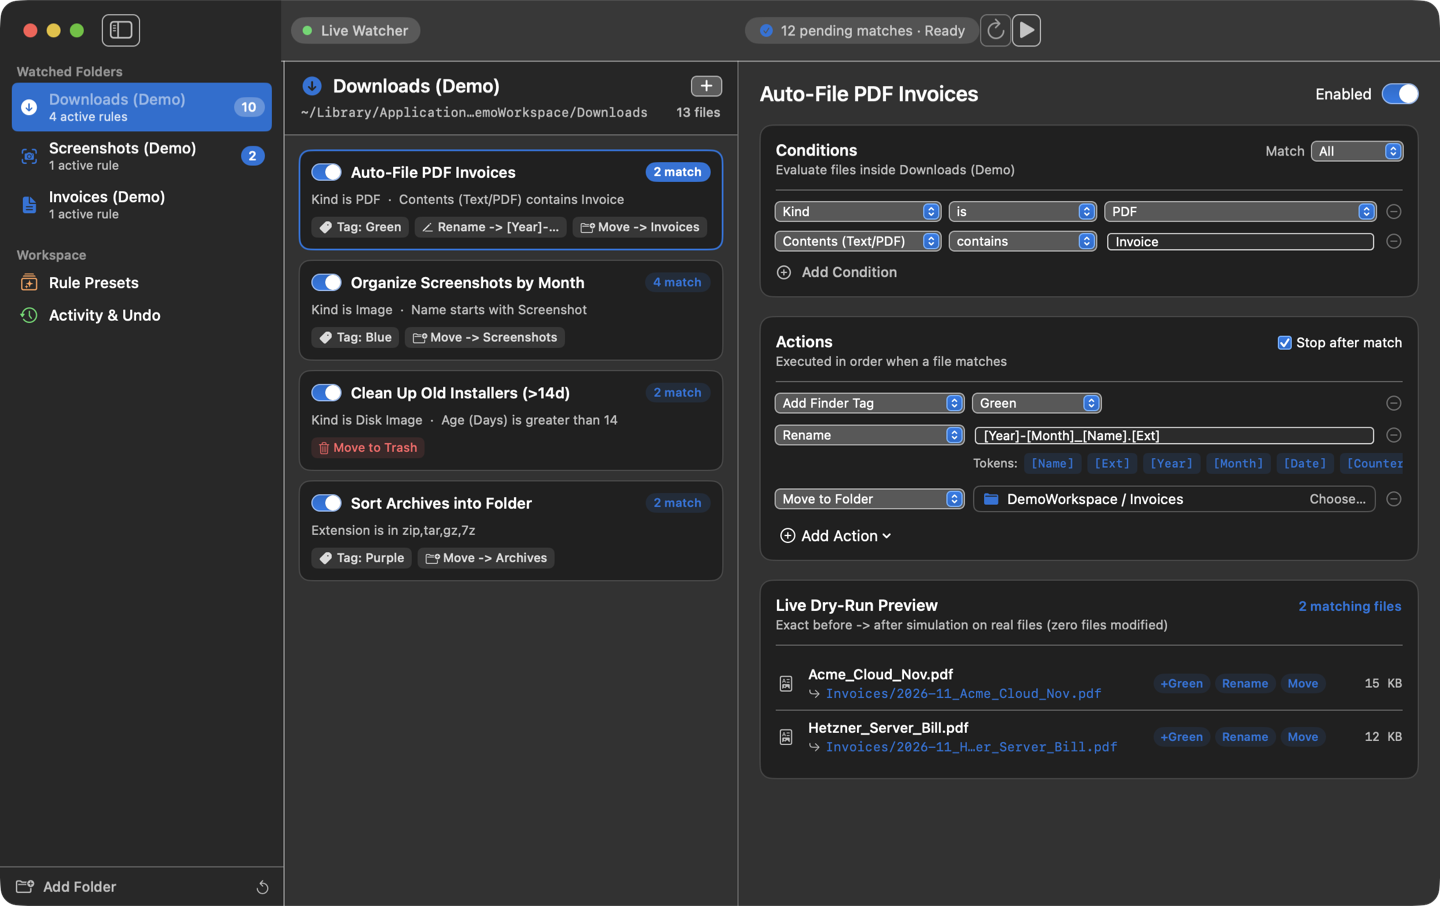
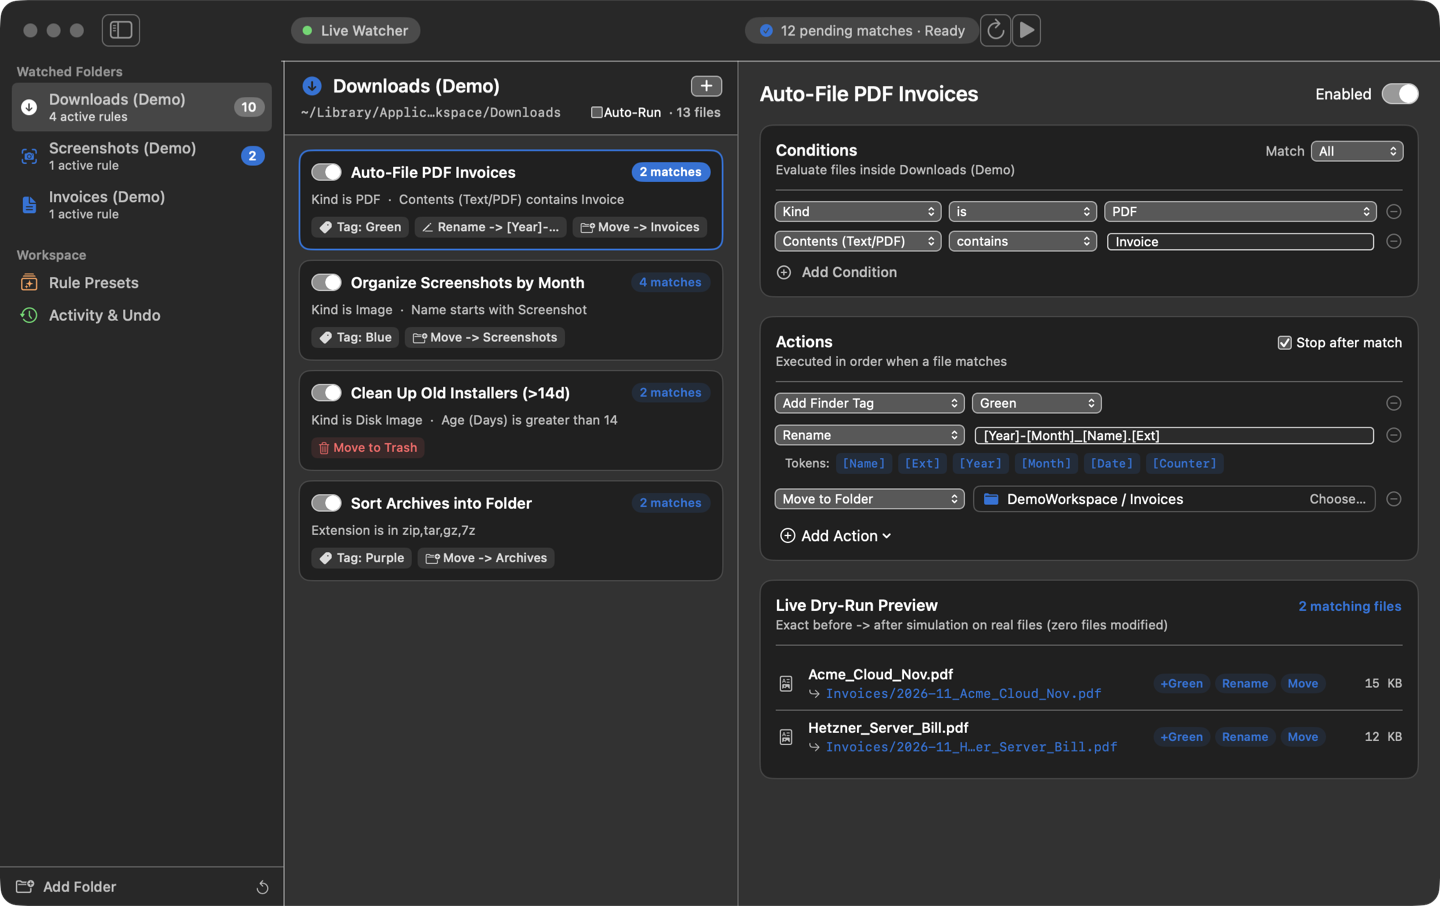
feat(v1.0.1): add per-folder Auto-Run on file drop, fix token chip clipping & match pluralization

diff --git a/Sources/RuleBox/Views/RuleEditorView.swift b/Sources/RuleBox/Views/RuleEditorView.swift
@@ -379,27 +379,26 @@ struct RuleEditorView: View {
             }
 
             if action.kind == .rename || action.kind == .sortIntoSubfolder {
-                ScrollView(.horizontal, showsIndicators: false) {
-                    HStack(spacing: 5) {
-                        Text("Tokens:")
-                            .font(.system(size: 10.5))
-                            .foregroundStyle(.secondary)
-                            .fixedSize()
-                        ForEach(["[Name]", "[Ext]", "[Year]", "[Month]", "[Date]", "[Counter]"], id: \.self) { tok in
-                            Button(tok) {
-                                mutate { $0.actions[index].pattern.append(tok) }
-                            }
-                            .buttonStyle(.plain)
-                            .font(.system(size: 10, weight: .medium, design: .monospaced))
-                            .fixedSize()
-                            .padding(.horizontal, 6)
-                            .padding(.vertical, 2.5)
-                            .background(Color.accentColor.opacity(0.14), in: RoundedRectangle(cornerRadius: 4))
-                            .foregroundStyle(Color.accentColor)
+                HStack(spacing: 5) {
+                    Text("Tokens:")
+                        .font(.system(size: 10.5))
+                        .foregroundStyle(.secondary)
+                        .fixedSize()
+                    ForEach(["[Name]", "[Ext]", "[Year]", "[Month]", "[Date]", "[Counter]"], id: \.self) { tok in
+                        Button(tok) {
+                            mutate { $0.actions[index].pattern.append(tok) }
                         }
+                        .buttonStyle(.plain)
+                        .font(.system(size: 10, weight: .medium, design: .monospaced))
+                        .fixedSize()
+                        .padding(.horizontal, 5.5)
+                        .padding(.vertical, 2.5)
+                        .background(Color.accentColor.opacity(0.14), in: RoundedRectangle(cornerRadius: 4))
+                        .foregroundStyle(Color.accentColor)
                     }
+                    Spacer(minLength: 0)
                 }
-                .padding(.leading, 170)
+                .padding(.leading, 8)
             }
         }
     }

diff --git a/Sources/RuleBox/Views/RuleListView.swift b/Sources/RuleBox/Views/RuleListView.swift
@@ -35,9 +35,18 @@ struct RuleListView: View {
                         .lineLimit(1)
                         .truncationMode(.middle)
                     Spacer()
-                    Text("\(store.fileCountByFolder[folder.id] ?? 0) files")
+                    Toggle("Auto-Run", isOn: Binding(
+                        get: { folder.autoRunOnChange },
+                        set: { _ in store.toggleAutoRun(for: folder.id) }
+                    ))
+                    .toggleStyle(.checkbox)
+                    .controlSize(.mini)
+                    .font(.system(size: 11))
+                    .help("Automatically execute matching rules when files are dropped into this folder")
+                    Text("· \(store.fileCountByFolder[folder.id] ?? 0) files")
                         .font(.system(size: 11, weight: .medium))
                         .foregroundStyle(.secondary)
+                        .fixedSize()
                 }
             }
             .padding(.horizontal, 14)
@@ -132,7 +141,7 @@ private struct RuleCardRow: View {
                 Spacer()
 
                 if matchCount > 0 {
-                    Text("\(matchCount) match")
+                    Text("\(matchCount) match\(matchCount == 1 ? "" : "es")")
                         .font(.system(size: 10.5, weight: .semibold, design: .rounded))
                         .foregroundStyle(isSelected ? Color.white : Color.accentColor)
                         .padding(.horizontal, 7)
@@ -142,7 +151,7 @@ private struct RuleCardRow: View {
                             in: Capsule()
                         )
                 } else {
-                    Text("0 match")
+                    Text("0 matches")
                         .font(.system(size: 10.5, weight: .medium))
                         .foregroundStyle(.tertiary)
                 }

diff --git a/Sources/RuleBoxCore/Models/RuleModels.swift b/Sources/RuleBoxCore/Models/RuleModels.swift
@@ -251,6 +251,7 @@ public struct WatchedFolder: Codable, Equatable, Hashable, Identifiable, Sendabl
     public var iconName: String
     public var isEnabled: Bool
     public var includeSubfolders: Bool
+    public var autoRunOnChange: Bool
     public var rules: [AutomationRule]
 
     public init(
@@ -260,6 +261,7 @@ public struct WatchedFolder: Codable, Equatable, Hashable, Identifiable, Sendabl
         iconName: String = "folder.fill",
         isEnabled: Bool = true,
         includeSubfolders: Bool = false,
+        autoRunOnChange: Bool = false,
         rules: [AutomationRule] = []
     ) {
         self.id = id
@@ -268,7 +270,24 @@ public struct WatchedFolder: Codable, Equatable, Hashable, Identifiable, Sendabl
         self.iconName = iconName
         self.isEnabled = isEnabled
         self.includeSubfolders = includeSubfolders
+        self.autoRunOnChange = autoRunOnChange
         self.rules = rules
+    }
+
+    private enum CodingKeys: String, CodingKey {
+        case id, name, path, iconName, isEnabled, includeSubfolders, autoRunOnChange, rules
+    }
+
+    public init(from decoder: Decoder) throws {
+        let c = try decoder.container(keyedBy: CodingKeys.self)
+        id = try c.decode(UUID.self, forKey: .id)
+        name = try c.decode(String.self, forKey: .name)
+        path = try c.decode(String.self, forKey: .path)
+        iconName = try c.decodeIfPresent(String.self, forKey: .iconName) ?? "folder.fill"
+        isEnabled = try c.decodeIfPresent(Bool.self, forKey: .isEnabled) ?? true
+        includeSubfolders = try c.decodeIfPresent(Bool.self, forKey: .includeSubfolders) ?? false
+        autoRunOnChange = try c.decodeIfPresent(Bool.self, forKey: .autoRunOnChange) ?? false
+        rules = try c.decodeIfPresent([AutomationRule].self, forKey: .rules) ?? []
     }
 }
 

diff --git a/Sources/RuleBoxCore/Store/RuleBoxStore.swift b/Sources/RuleBoxCore/Store/RuleBoxStore.swift
@@ -27,6 +27,7 @@ public final class RuleBoxStore {
     private let workspaceFileURL: URL
     private let activityFileURL: URL
     private var watcher: FolderWatcher?
+    private var lastAutoRunByFolder: [UUID: Date] = [:]
 
     public init(supportDir: URL? = nil, startWatcher: Bool = true) {
         let dir = supportDir ?? DemoWorkspaceGenerator.defaultSupportDirectory()
@@ -312,9 +313,29 @@ public final class RuleBoxStore {
         statusMessage = "Demo sample files restored"
     }
 
+    public func toggleAutoRun(for folderID: UUID) {
+        guard let idx = workspace.folders.firstIndex(where: { $0.id == folderID }) else { return }
+        workspace.folders[idx].autoRunOnChange.toggle()
+        saveWorkspace()
+        statusMessage = workspace.folders[idx].autoRunOnChange
+            ? "Auto-run enabled for \(workspace.folders[idx].name)"
+            : "Auto-run paused for \(workspace.folders[idx].name)"
+    }
+
     private func handleWatchedFolderEvent(folderID: UUID) {
         guard workspace.watcherActive else { return }
-        refreshAllPreviews()
+        guard let folder = workspace.folders.first(where: { $0.id == folderID && $0.isEnabled }) else { return }
+        if folder.autoRunOnChange {
+            let now = Date()
+            if let prev = lastAutoRunByFolder[folderID], now.timeIntervalSince(prev) < 1.2 {
+                refreshAllPreviews()
+                return
+            }
+            lastAutoRunByFolder[folderID] = now
+            runFolderNow(id: folderID)
+        } else {
+            refreshAllPreviews()
+        }
     }
 
     // MARK: - Persistence & Import/Export

diff --git a/Tests/RuleBoxCoreTests/RuleBoxCoreTests.swift b/Tests/RuleBoxCoreTests/RuleBoxCoreTests.swift
@@ -268,6 +268,24 @@ final class RuleBoxCoreTests: XCTestCase {
             let ws = try decoder.decode(RuleBoxWorkspace.self, from: data)
             XCTAssertFalse(ws.folders.isEmpty, "Example \(file.lastPathComponent) has no folders")
             XCTAssertFalse(ws.folders[0].rules.isEmpty, "Example \(file.lastPathComponent) has no rules")
+            XCTAssertFalse(ws.folders[0].autoRunOnChange)
         }
+    }
+
+    @MainActor
+    func testAutoRunTogglePersistsAndTriggersOnFolderEvent() throws {
+        let dir = try makeTempDir("autorun")
+        defer { try? FileManager.default.removeItem(at: dir) }
+
+        let store = RuleBoxStore(supportDir: dir, startWatcher: false)
+        let firstID = try XCTUnwrap(store.workspace.folders.first?.id)
+        XCTAssertFalse(store.workspace.folders[0].autoRunOnChange)
+
+        store.toggleAutoRun(for: firstID)
+        XCTAssertTrue(store.workspace.folders[0].autoRunOnChange)
+
+        // Reload from disk and verify persistence
+        let reloaded = RuleBoxStore(supportDir: dir, startWatcher: false)
+        XCTAssertTrue(reloaded.workspace.folders[0].autoRunOnChange)
     }
 }

diff --git a/README.md b/README.md
@@ -39,7 +39,7 @@ Measured on an **Apple M2 (8 GB RAM, macOS 27.2)** using a release build (`swift
 | PDF Content Matching | Yes (`PDFKit`) | Yes (plus OCR & custom date tokens) | Via scripts | Limited |
 | 1-Click Undo Journal | Yes (move, rename, tag, archive) | Trash / manual | None | None |
 | Maturity & Code Signing | Ad-hoc signed v1.0 | **Apple Notarized (18+ years mature)** | Built into macOS | Built into macOS |
-| App Size | **2.9 MB** | ~25 MB | Built-in | Built-in |
+| App Size | **2.9 MB** | Native macOS app | Built-in | Built-in |
 
 **When another tool is a better fit:**
 - Use **Hazel** if you need an Apple-notarized, battle-tested utility with OCR date-token extraction, Apple Photos/Music integration, and nested rule-matching conditions.
@@ -57,7 +57,7 @@ Three ready-to-inspect `.rulebox` JSON files live in [`examples/`](examples/READ
 
 ### Pre-Built Release (macOS 14+ Apple Silicon)
 
-1. Download `RuleBox-v1.0.0-macOS-arm64.zip` (and optional `SHA256SUMS.txt`) from [GitHub Releases](https://github.com/zm57cdj9yb-beep/rulebox/releases/latest).
+1. Download `RuleBox-v1.0.1-macOS-arm64.zip` (and optional `SHA256SUMS.txt`) from [GitHub Releases](https://github.com/zm57cdj9yb-beep/rulebox/releases/latest).
 2. Unzip and move `RuleBox.app` to `/Applications`.
 3. Because this open-source build is **ad-hoc signed** (not Apple Developer ID notarized), clear Gatekeeper quarantine once:
    ```bash
@@ -88,7 +88,7 @@ open "build/RuleBox.app"
 
 - **Ad-hoc signing:** Releases require the one-time `xattr -dr com.apple.quarantine` command until Apple Developer ID notarization is added.
 - **No OCR on scanned image-only PDFs yet:** `Contents (Text/PDF)` reads embedded PDF text via `PDFKit`; Vision OCR fallback for scanned PDFs is not implemented yet.
-- **Watcher mode in v1.0:** Background kernel events automatically refresh live dry-run match counts; automatic unattended execution on file drop (vs. clicking **Run Rules**) is intentionally opt-in in a future release so new users cannot accidentally move files while testing rules.
+- **Per-folder Auto-Run safety default:** Background kernel events automatically refresh live dry-run counts on all watched folders; unattended execution on file drop is controlled by each folder's **Auto-Run** toggle (off by default on the demo sandbox so new users can inspect previews first, with a 1.2s re-entrancy cooldown when enabled).
 
 ## Contributing & Security
 

diff --git a/CHANGELOG.md b/CHANGELOG.md
@@ -2,6 +2,14 @@
 
 All notable changes to RuleBox are documented in this file.
 
+## [1.0.1] - 2026-11-25
+
+### Added
+- **Per-folder Auto-Run on file drop:** Added `autoRunOnChange` toggle per watched folder wired directly to the debounced `O_EVTONLY` kernel `FolderWatcher` with a 1.2s re-entrancy cooldown.
+
+### Fixed
+- **UI polish:** Fixed `[Counter]` token chip clipping in the Rename action row and pluralized match count badges (`2 matches`, `0 matches`).
+
 ## [1.0.0] - 2026-11-25
 
 ### Added
